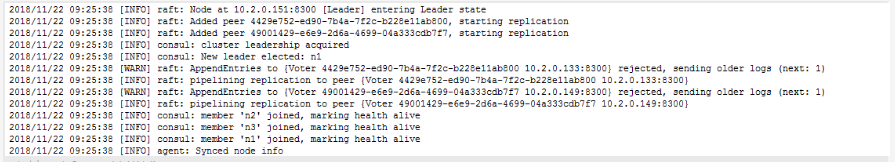
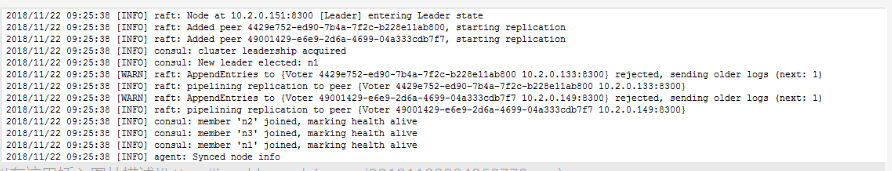
Site updated: 2018-11-22 10:18:44

diff --git a/2018/11/22/consulculster/index.html b/2018/11/22/consulculster/index.html
@@ -204,7 +204,7 @@
 </code></pre><p>2.4 将cluster加入10.2.0.151<br>./consul join 10.2.0.151</p>
 <p>到此，集群部署成功。在leader下可看到如下日志<br><img src="\images\pasted-0.png" alt="upload successful"></p>
 <p>访问ip+8500即可看到web界面</p>
-<p><img src="\images\pasted-1.png" alt="upload successful"></p>
+<p><img src="\images\pasted-3.png" alt="upload successful"></p>
 
 					
 				</div>
